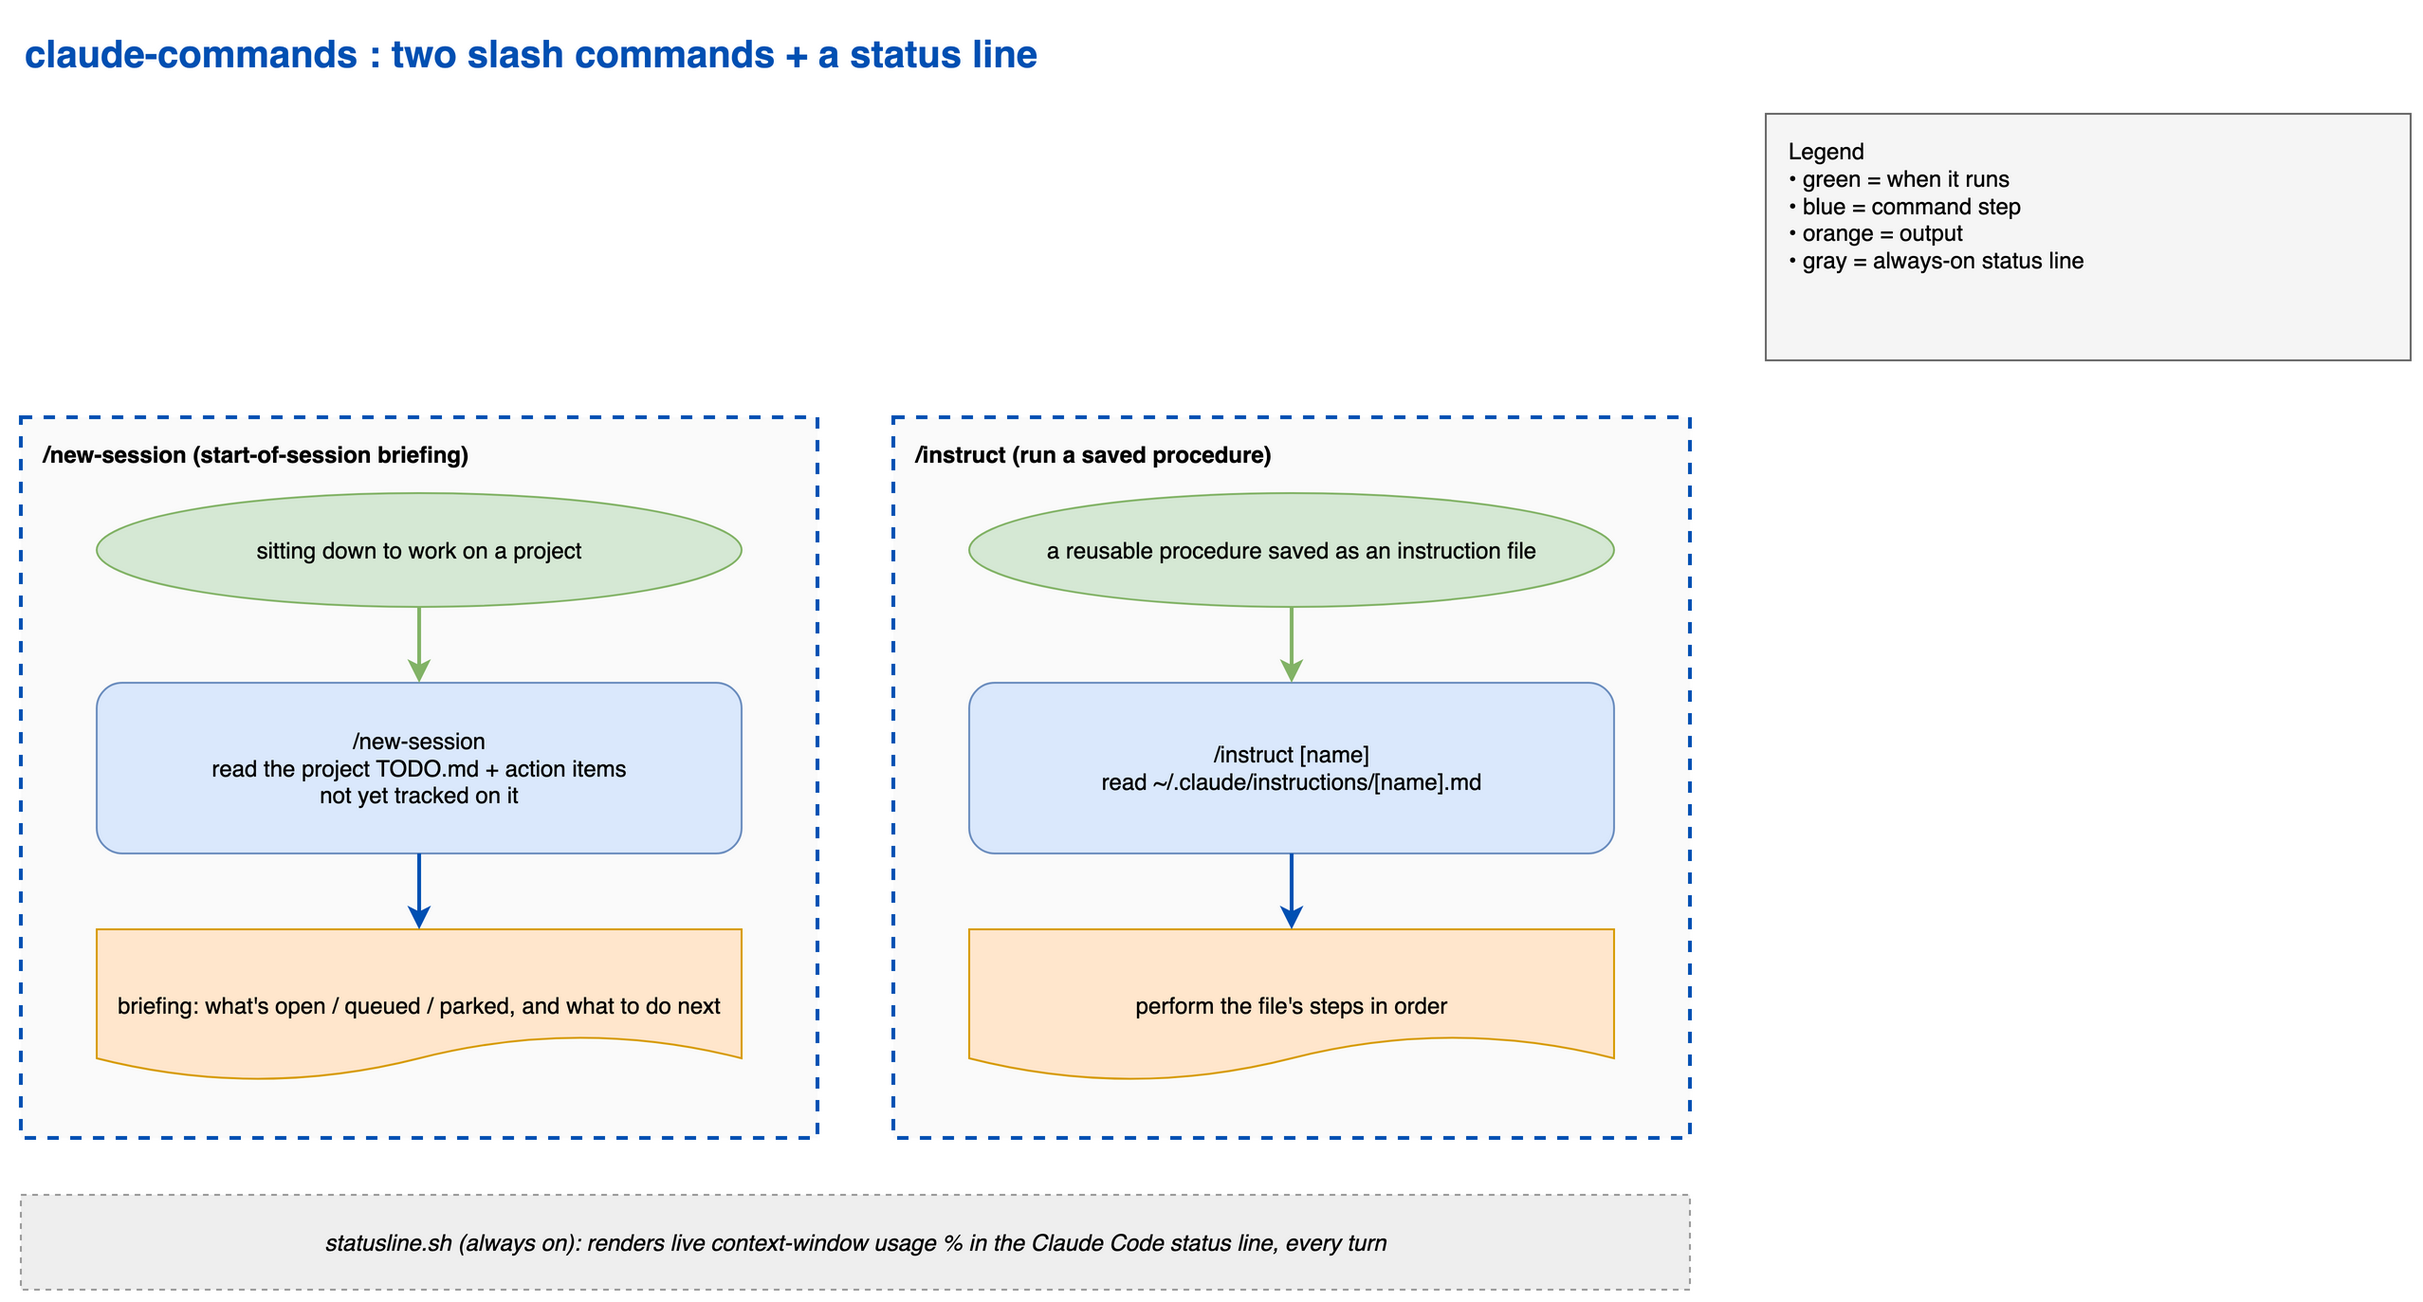
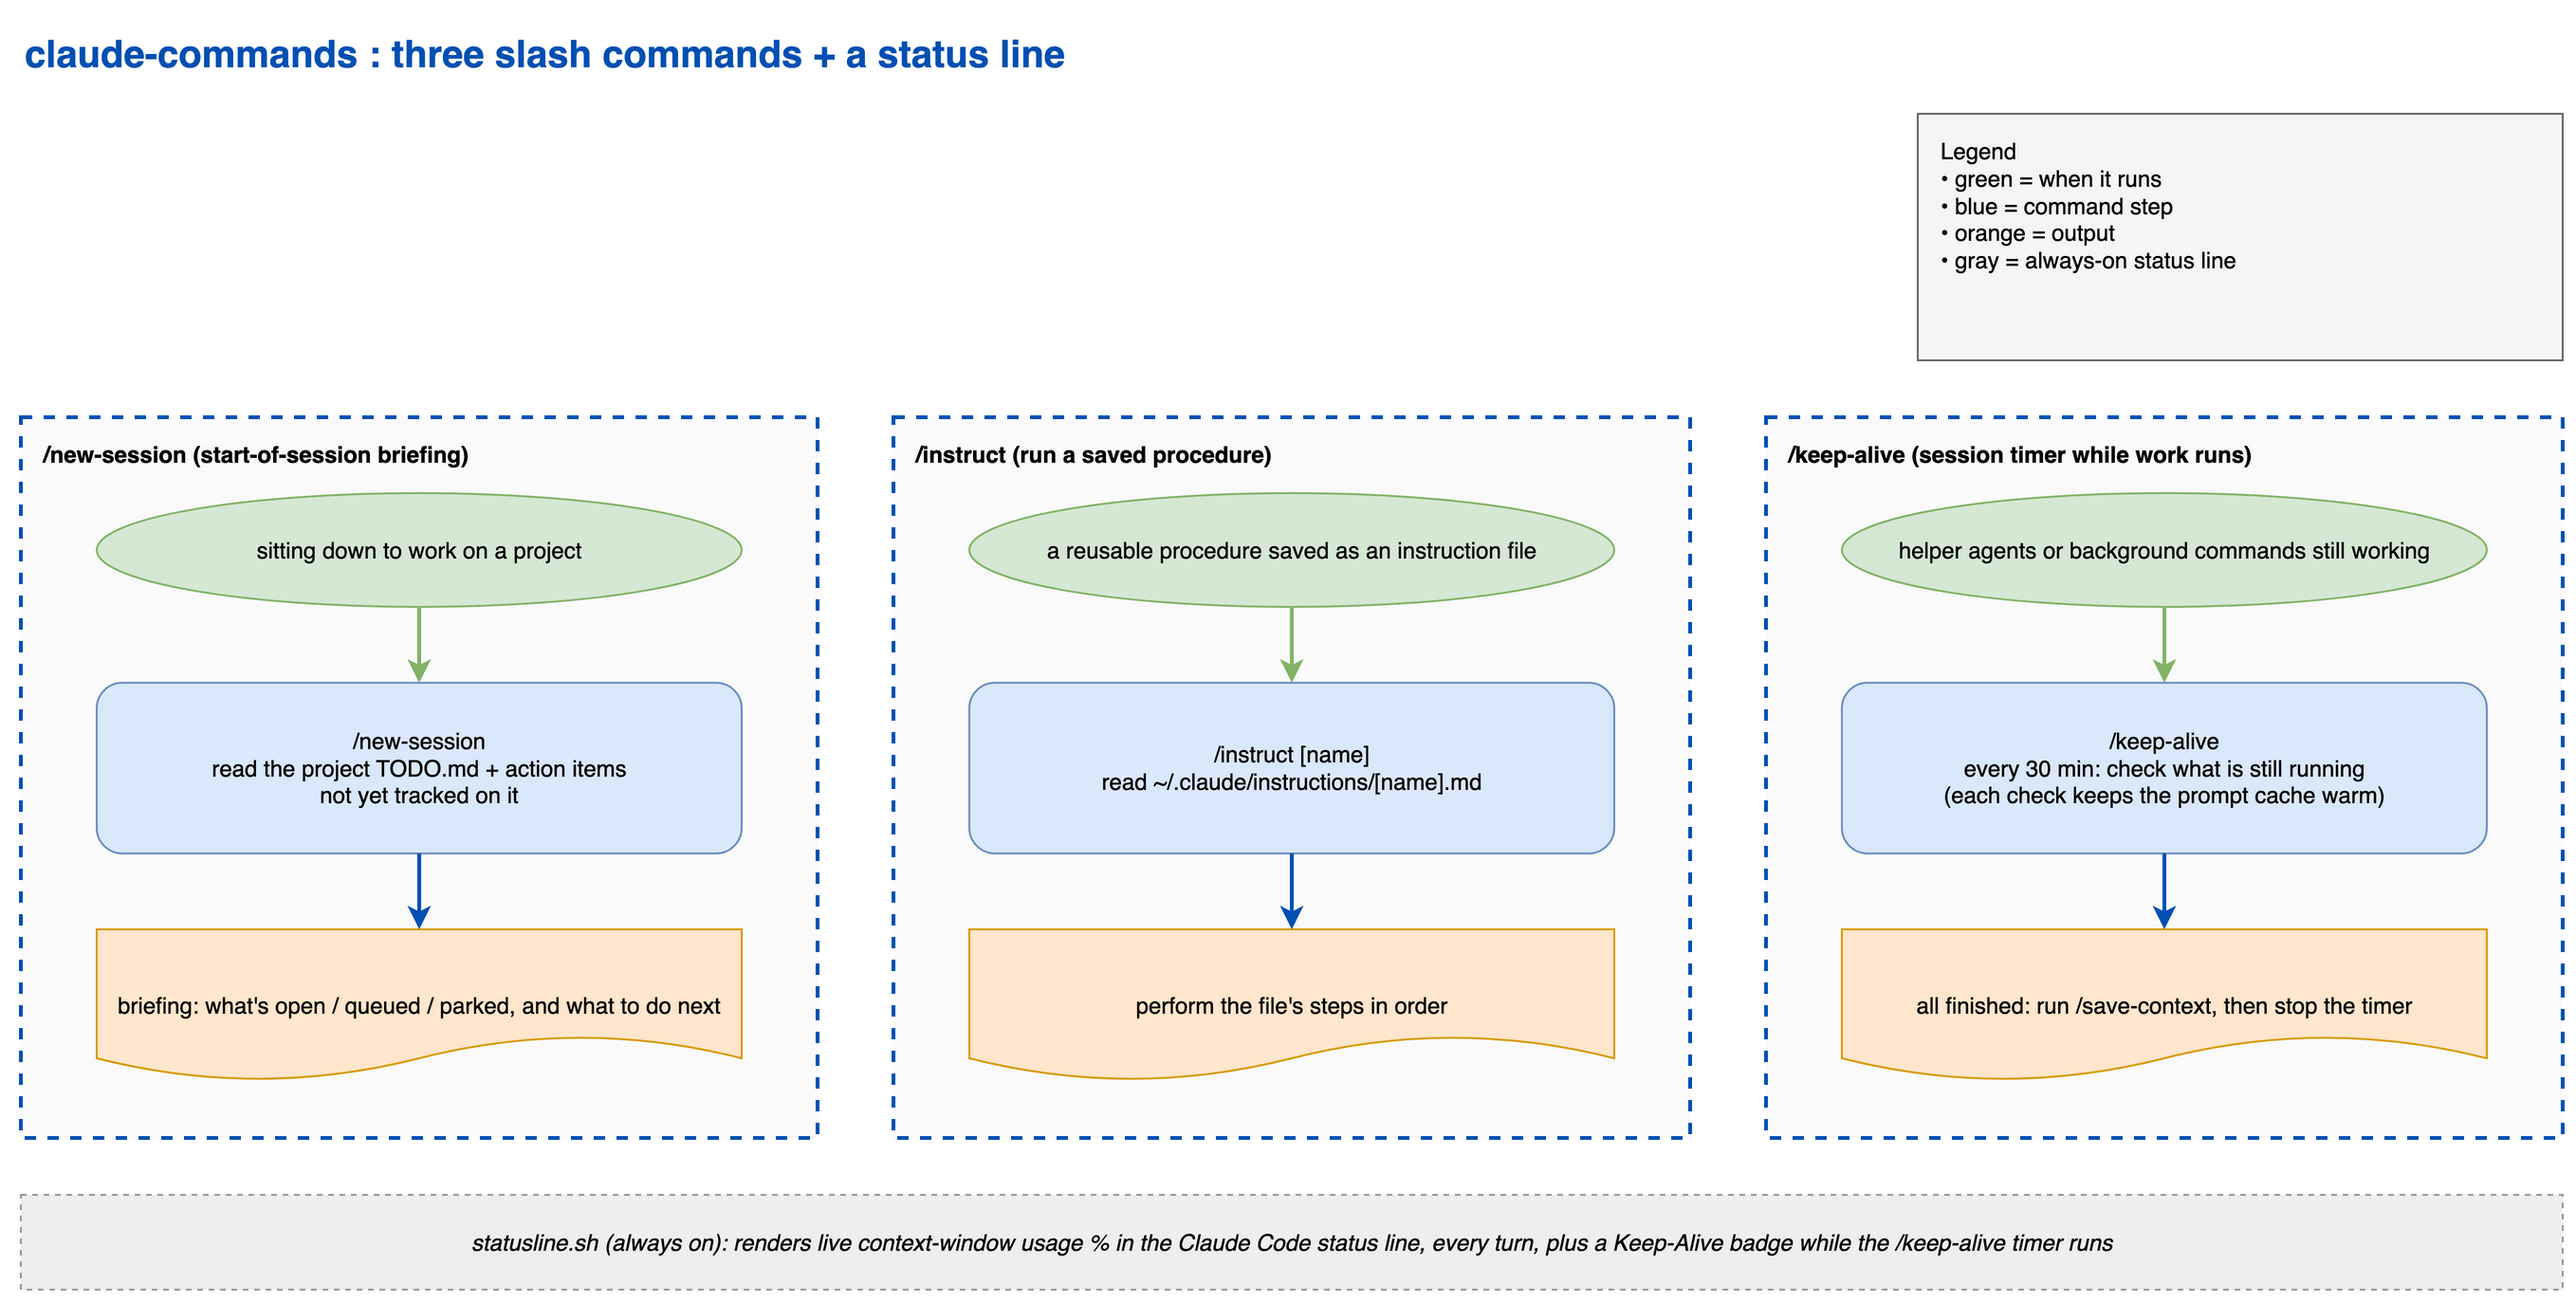
Add /keep-alive and a Keep-Alive status line badge
/keep-alive starts a 30-minute session timer that reports the helper agents,
background commands and headless runs still working, keeps the prompt cache
warm while you wait, and saves the session with /save-context once everything
has finished. statusline.sh shows a Keep-Alive badge while that timer runs.

diff --git a/README.md b/README.md
@@ -1,6 +1,6 @@
 # Claude Code commands
 
-Two slash commands for Claude Code, plus a status-line script that shows your context-window usage continuously.
+Three slash commands for Claude Code, plus a status-line script that shows your context-window usage continuously.
 
 ![claude-commands flow](docs/commands-flow.png)
 
@@ -8,6 +8,7 @@ Source: [docs/commands-flow.drawio](docs/commands-flow.drawio) (editable in draw
 
 - **`/new-session`** — start-of-session briefing for a project: its open TODO items, plus open action items not yet tracked in the TODO (from CLAUDE.md, project memory, git state, open PRs, and code markers). Read-only.
 - **`/instruct <file>`**, or **`/instruct <a description of the work>`** — run an instruction file from `~/.claude/instructions/` (or a path), or, when the text matches no file, take the text itself as the instruction. Either way it switches to Plan mode, drafts a plan, and waits for your approval before executing.
+- **`/keep-alive`**: a session timer for long background work. Every 30 minutes it checks the helper agents, background commands and headless runs this session started, and reports them in three lines. Each check is a turn, so it also keeps the session's prompt cache warm while you wait. Once everything has finished and you have not written since the last check, it saves the session with `/save-context` and switches itself off. `/keep-alive stop` ends it early.
 - **`statusline.sh`** — prints e.g. `[Opus 5] claude-commands (main) · 37% used · 63% left · 74K/200K` (model, current directory and git branch, context used and remaining percentage, and the in-window token count vs capacity) so your usage is always visible at the bottom of the terminal. Two parts are color-coded. The context percentage is green below 40% used, yellow from 40 to 60%, and red above 60%. The token count is a gauge of the same kind: green while under 400K, a yellow `over 400K` flag once it passes 400K, and a red `over 600K` past 600K (those flags only appear in extended-context sessions, where the window is larger than 400K). The cutoffs (`YELLOW_PCT`, `RED_PCT`, `OVER_YELLOW`, `OVER_RED`) are variables at the top of the script; change them to retarget the colors and flags. The model shown is the one that actually produced the last reply, read from the session transcript, not just the session setting. A skill or command whose frontmatter pins a different model shows as `[Opus 5→Sonnet 5]` while it is active and reverts on the next plain turn, so a per-turn override is visible instead of silent.
 
 ## Install
@@ -21,7 +22,7 @@ mkdir -p ~/.claude/commands
 cp commands/*.md ~/.claude/commands/
 ```
 
-They're available immediately as `/new-session` and `/instruct`.
+They're available immediately as `/new-session`, `/instruct` and `/keep-alive`.
 
 ### Status line
 
@@ -70,6 +71,11 @@ whether that is a message you type, a background task notification, another skil
 being invoked, or any further work after the skill's own turn ended. Running the
 skill again brings the badge back.
 
+A third badge, **Keep-Alive**, needs no setup. It shows while the `/keep-alive` timer
+is running: from the moment the command creates its timer until that same timer is
+deleted, by `/keep-alive stop` or by the last check, which saves the session and
+switches itself off.
+
 The skill's own steps never withdraw its own badge, including a report it prints
 and any agent it spawns. Verdicts are cached per session, and each redraw reads
 only the transcript bytes added since the last one, so a long session costs about
@@ -79,6 +85,7 @@ the same as a short one.
 
 - `/new-session` works best if you keep per-project notes under `~/.claude/projects/<X>/` (a `TODO.md` and an optional `CLAUDE.md` / `memory/` folder). It degrades gracefully when those don't exist: it just reports what it can find from git and open PRs. Paths are derived from `$HOME`, so it works on any machine without editing.
 - `/instruct` expects instruction files in `~/.claude/instructions/`. Create that folder and drop `.md` files in it, then run `/instruct <name>`. An instruction file can also take an argument: run `/instruct <path-to-file> <argument>` and everything after the path is passed to the file rather than read as part of its name. Use it for a file written to work on a target you name at call time, such as a plan path, a goal, or a mode. You can also skip the file: type the work as a sentence or a paragraph, and when nothing in the folder matches, `/instruct` takes your words as the instruction and plans against them verbatim. It says so in one line before it starts, and it asks rather than guessing when the text could be read either way.
+- `/keep-alive` saves the session by following the `save-context` skill from [multi-phase-skills-framework](https://github.com/eranw2000/multi-phase-skills-framework). Without it installed, the timer still reports and stops by itself, and says the save was skipped. The timer lives only in the session that started it: closing the session ends it, and it expires by itself after 7 days.
 - The commands are read-only by design except for one explicit, confirmed action (`/new-session` may offer to append uncaptured items to your `TODO.md`, only after you say yes).
 
 ## License

diff --git a/commands/keep-alive.md b/commands/keep-alive.md
@@ -1,0 +1,77 @@
+---
+model: inherit
+description: "Every 30 minutes, check this session's helper agents, background commands and headless runs. While anything is running, report it in three lines (each tick also keeps the session's prompt cache warm). Once all are finished and nobody has written since the last tick, run /save-context in full, then stop the timer. Use when the user says 'keep-alive', 'keep the session alive', 'keep the cache warm while the agents work', or '/keep-alive stop'."
+argument-hint: "[start | tick | stop]  (default: start)"
+---
+
+# keep-alive
+
+A session-only timer that wakes this session every 30 minutes. Each wake is a turn, and a
+turn that hits the cache resets its one-hour timer ("Each request that hits the cache resets
+the timer, so the cache stays warm as long as you keep working.",
+https://code.claude.com/docs/en/prompt-caching.md). When the work it is waiting for is done,
+it saves the session and switches itself off.
+
+The command has no `model:` pin on purpose. The prompt cache belongs to one model, so a
+tick that ran on another model would read the whole session cold and leave this model's
+cache unrefreshed. For the same reason the save is FOLLOWED from the save-context skill's
+file, never invoked with the Skill tool.
+
+Argument: `$ARGUMENTS` (blank means `start`).
+
+## start
+
+1. Load `CronCreate`, `CronList`, `CronDelete` and `ListAgents` in ONE `ToolSearch` call.
+2. `CronList`. If a job whose prompt is `/keep-alive tick` already exists, say so with its id
+   and do not create a second one.
+3. Otherwise `CronCreate` with `cron: "13,43 * * * *"` (every 30 minutes, off the :00 and :30
+   marks), `prompt: "/keep-alive tick"`, `recurring: true`.
+4. Tell the user in plain words: the job id, that it fires only while the session is idle, that it
+   lives only in this session (closing the session ends it), and that it expires by itself
+   after 7 days.
+5. Run one `tick` now, so the first answer does not wait 30 minutes.
+
+## tick
+
+Do only this. Start no other work from a tick, and answer with three lines: `Done:` what
+finished, `Now:` what is still running, `You:` what the user must do, or "nothing".
+
+1. **What is still running.** List everything this session started in the background and has
+   not yet seen finish: helper agents (`ListAgents`, and the completion notice each one sends),
+   background shell commands and monitors (a `run_in_background` call with no completion
+   notice yet), and any headless `claude -p` run this session launched (check its process with
+   `ps -axo pid,etime,command`). A watch that this session re-arms after each round (a `wait`
+   loop on a remote job) counts as running while its latest round has no notice.
+2. **What is half done.** A question still waiting for the user's answer, or a flow stopped
+   half way: a rebase or merge in progress, a release between its steps, a failed command
+   this session has not dealt with yet.
+3. **Decide.**
+   - **Something needs the user** (a helper or run that failed, one with no new output on two
+     ticks in a row, or anything from step 2): answer with the three lines, the `You:` line
+     naming the one action, and stop. Do not save, keep ticking.
+   - **Something is still running** (anything from step 1): answer with the three lines only
+     (`Done:`, `Now:` naming each running item, `You: nothing`). Do not save. Stop.
+   - **Nothing is running and nothing needs the user:** go on.
+4. **Has the user written since the previous tick?** Look for a genuine message from the user
+   after the previous `/keep-alive tick` turn. A cron prompt, a task notification, a hook
+   message and a subagent hand-back are NOT the user. If they wrote, they are active: answer
+   `Now: you are active, no save.` and stop.
+5. **Save if the save is behind.** Find the last `/save-context` run in this conversation. If
+   any work, result or notice came after it, or it never ran (ticks that only reported state
+   do not count), read `~/.claude/skills/save-context/SKILL.md` and execute every step in it,
+   in full, in this turn. Otherwise skip the save and say the last save already covers
+   everything. If that file does not exist, skip the save and say `/save-context` is not
+   installed.
+6. **Switch off.** `CronList`, then `CronDelete` the `/keep-alive tick` job, because there is
+   nothing left to wait for. Then write, in bold:
+   `**DONE: all agents and background commands finished, keep-alive stopped. You: nothing (run /keep-alive to start it again)**`
+
+## stop
+
+`CronList`, `CronDelete` every job whose prompt is `/keep-alive tick`, and confirm with the
+id(s) removed. Say "no keep-alive job was running" when there was none.
+
+## What it costs
+
+Each tick re-reads the whole session from the cache, billed as cache reads, not new writes.
+The timer stops itself once the work is done, so it does not keep ticking.
